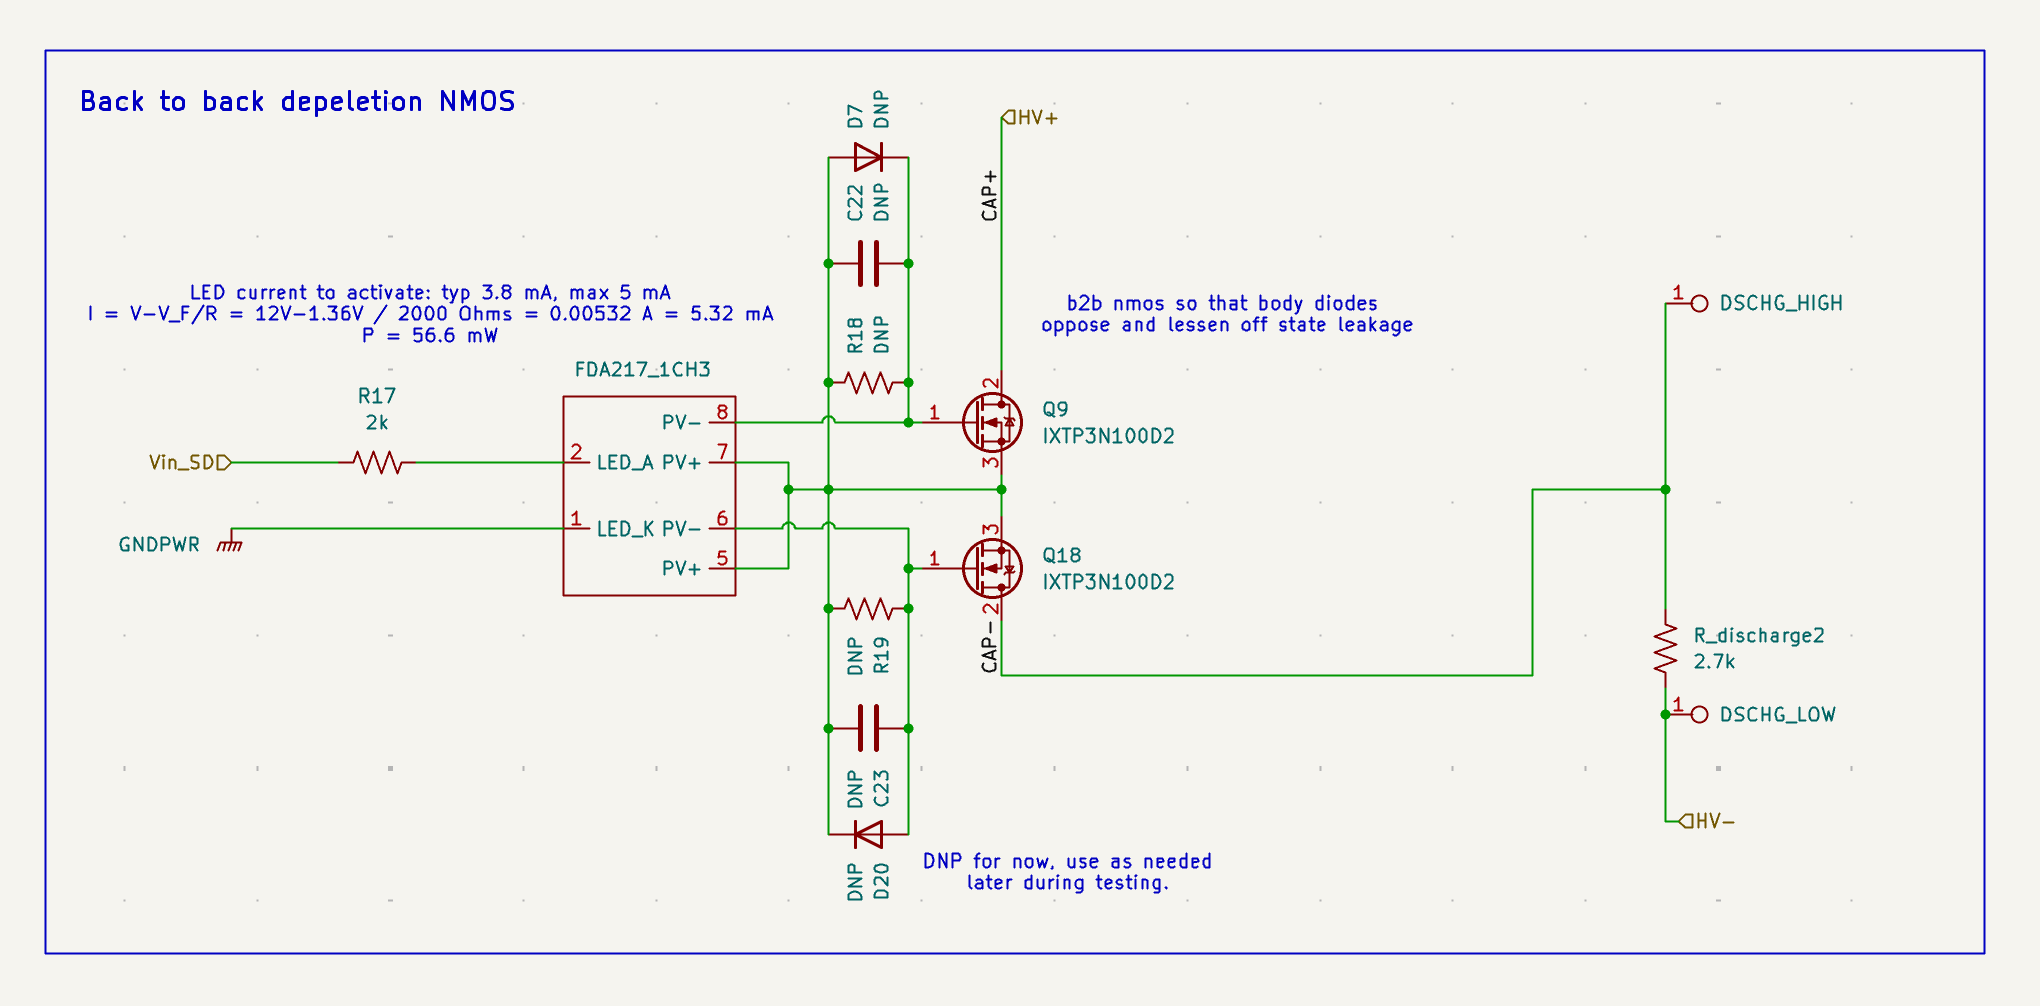
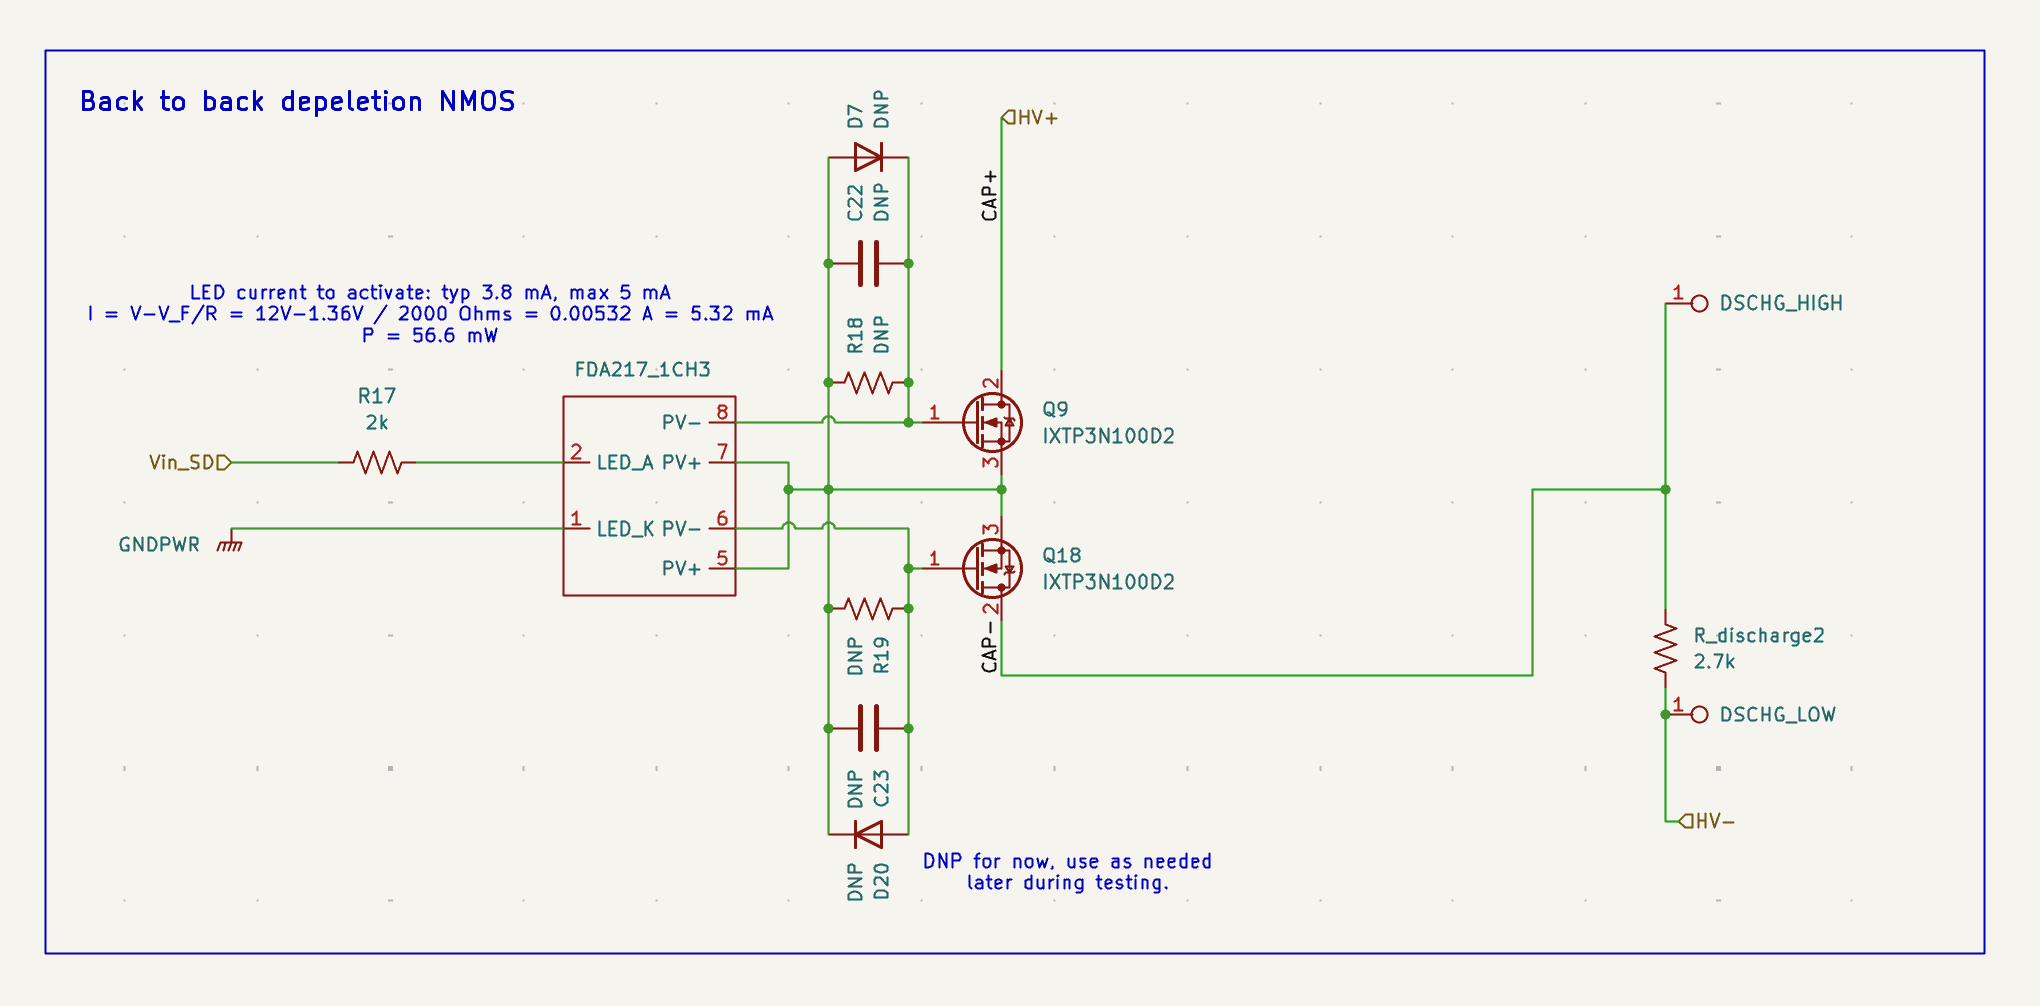
cleaning

Changed region(s): [[0.4941, 0.2773, 0.7103, 0.339], [0.0618, 0.5239, 0.0926, 0.5547]]

diff --git a/projects/hv-control-board.html b/projects/hv-control-board.html
@@ -298,21 +298,15 @@
         </figure>
 
 
-        <h3>Development and testing</h3>
+        <h3>Validation</h3>
 
         <p>
-            The discharge circuit went through several revisions during development.
-            An earlier solid-state implementation switched correctly during
-            low-voltage bench testing, but increasing the test voltage revealed
-            excessive off-state leakage and heating.
-        </p>
-
-        <p>
-            That changed how I test the circuit. Instead of only checking whether
-            the switch turns on and off, I also measure off-state current and
-            gate-source voltage as the bus voltage is increased. The optional gate
-            resistance, capacitance, and clamping footprints on this revision give
-            me places to adjust the gate network during testing if needed.
+            High-voltage validation of this revision is in progress. 
+            An earlier solid-state discharge circuit switched correctly 
+            at low voltage but leaked and heated up as I raised the bus
+            voltage. Because of that, I now measure off-state current 
+            and gate-source voltage at each voltage step instead of only
+            checking that the switch turns on and off.
         </p>
 
     </section>
